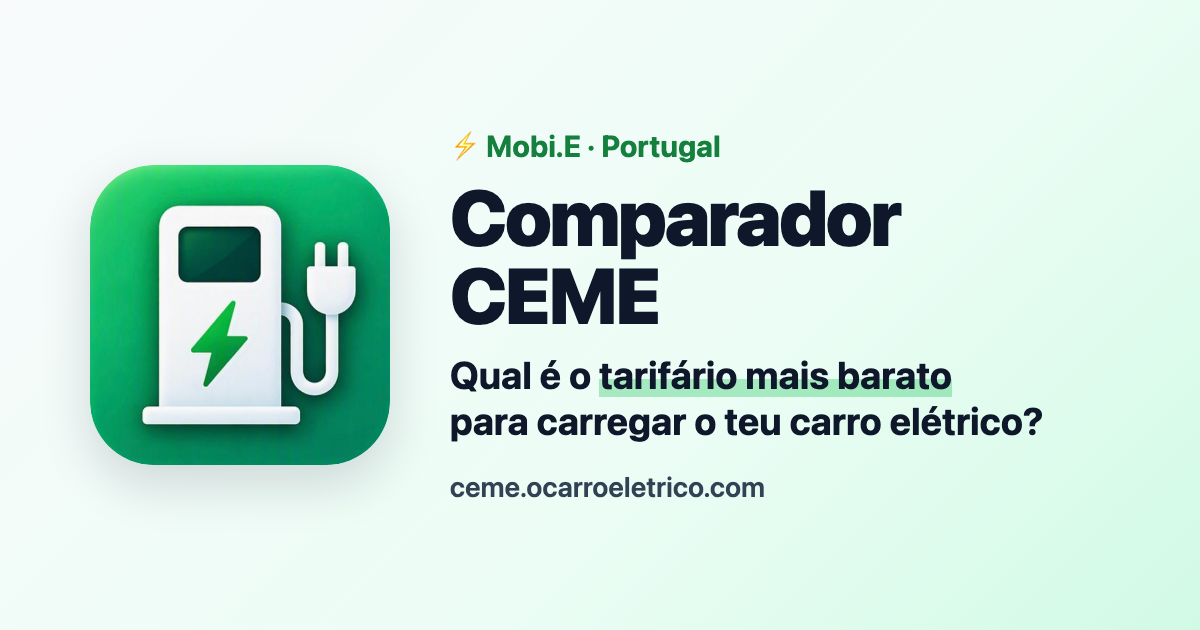
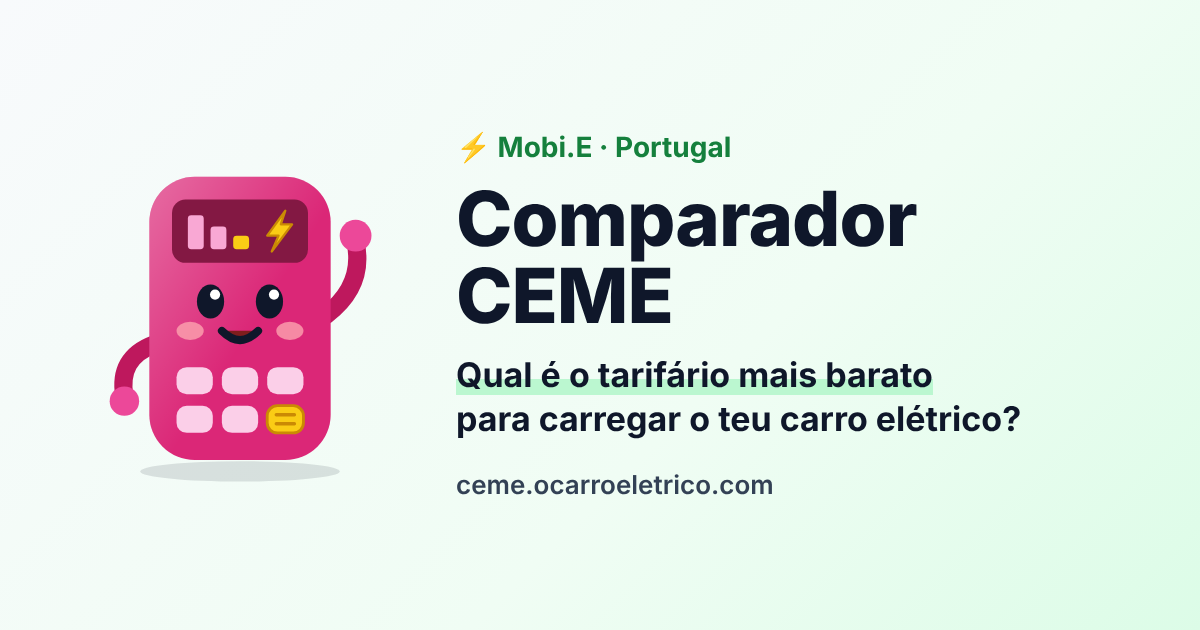
Mascote: a calculadora cor-de-rosa substitui o posto verde (#123)
- icon.svg com a mascote (sombra clara no tema escuro do browser).
- PNG gerados a partir do SVG com o Chromium: 64/96/192/512 com a
  mascote completa; 32 só com corpo, ecrã e cara; 180 e maskable com
  fundo, a mascote dentro da zona segura.
- og.png refeito com a mascote, no mesmo esquema.
- ?v=2 → ?v=3 nos ícones das páginas e do manifest; CACHE do service
  worker sobe para ceme-v8, para largar os ícones antigos.
- README: a mascote faz parte da marca e fica fora das licenças.

Claude-Session: https://claude.ai/code/session_01Mo9tqJKE4zwpdm1Wy1b5TD

diff --git a/frontend/index.html b/frontend/index.html
@@ -33,8 +33,8 @@
 <meta name="apple-mobile-web-app-capable" content="yes">
 <meta name="apple-mobile-web-app-status-bar-style" content="default">
 <meta name="apple-mobile-web-app-title" content="CEME">
-<link rel="apple-touch-icon" href="/icon-180.png?v=2">
-<link rel="icon" type="image/png" sizes="32x32" href="/icon-32.png?v=2"><link rel="icon" type="image/svg+xml" sizes="any" href="/icon.svg">
+<link rel="apple-touch-icon" href="/icon-180.png?v=3">
+<link rel="icon" type="image/png" sizes="32x32" href="/icon-32.png?v=3"><link rel="icon" type="image/svg+xml" sizes="any" href="/icon.svg">
 <style>
   :root{color-scheme:light;
     --ink:#0f172a;--mut:#64748b;--line:#e2e8f0;--bg:#f1f5f9;
@@ -309,7 +309,7 @@
     .bigkwh{font-size:26px}
   }
 </style>
-<header class="top"><div class="wrap"><a class="logo" href="#/"><span class="mark"><img src="/icon-32.png?v=2" srcset="/icon-32.png?v=2 1x, /icon-64.png?v=2 2x, /icon-96.png?v=2 3x" alt="" width="28" height="28"></span><span class="ttl" id="logoTxt">Comparador CEME <b>@ O Carro Elétrico</b></span></a><nav><a href="#/" id="nHome">Simular</a><a href="#/comparar" id="nCmp">Indexado vs fixo</a><a href="/assistente" id="nSimple">Assistente</a><a href="/sobre" id="nSobre">Sobre</a><a href="/contactos" id="nContactos">Contactos</a></nav><span class="langs" role="group" aria-label="Idioma / Language"><button data-lang="pt" class="on" title="Português" aria-label="Português"><svg viewBox="0 0 35 20" preserveAspectRatio="xMidYMid meet" aria-hidden="true"><rect width="14" height="20" fill="#046A38"/><rect x="14" width="21" height="20" fill="#DA291C"/><circle cx="14" cy="10" r="4.8" fill="#FFCC00" stroke="#fff" stroke-width=".7"/><circle cx="14" cy="10" r="2.2" fill="#DA291C"/></svg></button><button data-lang="en" title="English" aria-label="English"><svg viewBox="0 0 60 30" preserveAspectRatio="xMidYMid meet" aria-hidden="true"><defs><clipPath id="uJack"><path d="M0,0 H60 V30 H0 Z"/></clipPath></defs><g clip-path="url(#uJack)"><rect width="60" height="30" fill="#012169"/><path d="M0,0 L60,30 M60,0 L0,30" stroke="#FFFFFF" stroke-width="6"/><path d="M30,0 V30 M0,15 H60" stroke="#FFFFFF" stroke-width="10"/></g><path d="M0,0 L60,30 M60,0 L0,30" stroke="#C8102E" stroke-width="4"/><path d="M30,0 V30 M0,15 H60" stroke="#C8102E" stroke-width="6"/></svg></button></span><button id="themeBtn" class="themebtn" type="button"></button></div></header>
+<header class="top"><div class="wrap"><a class="logo" href="#/"><span class="mark"><img src="/icon-32.png?v=3" srcset="/icon-32.png?v=3 1x, /icon-64.png?v=3 2x, /icon-96.png?v=3 3x" alt="" width="28" height="28"></span><span class="ttl" id="logoTxt">Comparador CEME <b>@ O Carro Elétrico</b></span></a><nav><a href="#/" id="nHome">Simular</a><a href="#/comparar" id="nCmp">Indexado vs fixo</a><a href="/assistente" id="nSimple">Assistente</a><a href="/sobre" id="nSobre">Sobre</a><a href="/contactos" id="nContactos">Contactos</a></nav><span class="langs" role="group" aria-label="Idioma / Language"><button data-lang="pt" class="on" title="Português" aria-label="Português"><svg viewBox="0 0 35 20" preserveAspectRatio="xMidYMid meet" aria-hidden="true"><rect width="14" height="20" fill="#046A38"/><rect x="14" width="21" height="20" fill="#DA291C"/><circle cx="14" cy="10" r="4.8" fill="#FFCC00" stroke="#fff" stroke-width=".7"/><circle cx="14" cy="10" r="2.2" fill="#DA291C"/></svg></button><button data-lang="en" title="English" aria-label="English"><svg viewBox="0 0 60 30" preserveAspectRatio="xMidYMid meet" aria-hidden="true"><defs><clipPath id="uJack"><path d="M0,0 H60 V30 H0 Z"/></clipPath></defs><g clip-path="url(#uJack)"><rect width="60" height="30" fill="#012169"/><path d="M0,0 L60,30 M60,0 L0,30" stroke="#FFFFFF" stroke-width="6"/><path d="M30,0 V30 M0,15 H60" stroke="#FFFFFF" stroke-width="10"/></g><path d="M0,0 L60,30 M60,0 L0,30" stroke="#C8102E" stroke-width="4"/><path d="M30,0 V30 M0,15 H60" stroke="#C8102E" stroke-width="6"/></svg></button></span><button id="themeBtn" class="themebtn" type="button"></button></div></header>
 <div class="hero"><div class="in" id="hero"><h1>Quanto custa <span>carregar agora?</span></h1><p>A ligar ao simulador…</p></div></div>
 <main id="app"></main>
 <div id="favModal" class="modal">

diff --git a/frontend/assistente.html b/frontend/assistente.html
@@ -19,8 +19,8 @@
 <meta name="apple-mobile-web-app-capable" content="yes">
 <meta name="apple-mobile-web-app-status-bar-style" content="default">
 <meta name="apple-mobile-web-app-title" content="CEME">
-<link rel="apple-touch-icon" href="/icon-180.png?v=2">
-<link rel="icon" type="image/png" sizes="32x32" href="/icon-32.png?v=2"><link rel="icon" type="image/svg+xml" sizes="any" href="/icon.svg">
+<link rel="apple-touch-icon" href="/icon-180.png?v=3">
+<link rel="icon" type="image/png" sizes="32x32" href="/icon-32.png?v=3"><link rel="icon" type="image/svg+xml" sizes="any" href="/icon.svg">
 <style>
 :root {
   --bg0: #F7F7F7; --bg1: #EDEDED;
@@ -388,7 +388,7 @@ const STEPS = ['onde', 'quanto', 'quando'];
 function header(step) {
   const i = STEPS.indexOf(step);
   const left = step === 'landing'
-    ? '<a class="home" href="#/"><img src="/icon-32.png?v=2" srcset="/icon-32.png?v=2 1x, /icon-64.png?v=2 2x, /icon-96.png?v=2 3x" alt="" width="28" height="28">CEME</a>'
+    ? '<a class="home" href="#/"><img src="/icon-32.png?v=3" srcset="/icon-32.png?v=3 1x, /icon-64.png?v=3 2x, /icon-96.png?v=3 3x" alt="" width="28" height="28">CEME</a>'
     : `<button class="iconbtn back" data-act="back" aria-label="${t('back')}"><svg viewBox="0 0 24 24"><path d="M15 5l-7 7 7 7"/></svg></button>`;
   const mid = i >= 0 ? `<div class="progress" aria-label="${i + 1} / 3">${STEPS.map((_, j) => `<i class="${j <= i ? 'on' : ''}"></i>`).join('')}</div>` : '';
   document.getElementById('top').innerHTML = `${left}${mid}<span class="spacer"></span>

diff --git a/frontend/tabela.html b/frontend/tabela.html
@@ -15,8 +15,8 @@
   <meta name="apple-mobile-web-app-capable" content="yes">
   <meta name="apple-mobile-web-app-status-bar-style" content="default">
   <meta name="apple-mobile-web-app-title" content="CEME">
-  <link rel="apple-touch-icon" href="/icon-180.png?v=2">
-  <link rel="icon" type="image/png" sizes="32x32" href="/icon-32.png?v=2"><link rel="icon" type="image/svg+xml" sizes="any" href="/icon.svg">
+  <link rel="apple-touch-icon" href="/icon-180.png?v=3">
+  <link rel="icon" type="image/png" sizes="32x32" href="/icon-32.png?v=3"><link rel="icon" type="image/svg+xml" sizes="any" href="/icon.svg">
   <link rel="stylesheet" href="/pages.css">
   <style>
     /* uma tabela para ler e comparar, não um painel: ocupa o ecrã todo e
@@ -79,7 +79,7 @@
 <body>
   <header class="top">
     <div class="wrap">
-      <a class="logo" href="/"><span class="mark"><img src="/icon-32.png?v=2" srcset="/icon-32.png?v=2 1x, /icon-64.png?v=2 2x, /icon-96.png?v=2 3x" alt="" width="28" height="28"></span><span class="ttl" id="logoTxt"></span></a>
+      <a class="logo" href="/"><span class="mark"><img src="/icon-32.png?v=3" srcset="/icon-32.png?v=3 1x, /icon-64.png?v=3 2x, /icon-96.png?v=3 3x" alt="" width="28" height="28"></span><span class="ttl" id="logoTxt"></span></a>
       <nav>
         <a href="/simulador" id="nSim"></a>
         <a href="/assistente" id="nAssistant"></a>

diff --git a/frontend/api.html b/frontend/api.html
@@ -19,8 +19,8 @@
 <meta name="apple-mobile-web-app-capable" content="yes">
 <meta name="apple-mobile-web-app-status-bar-style" content="default">
 <meta name="apple-mobile-web-app-title" content="CEME">
-<link rel="apple-touch-icon" href="/icon-180.png?v=2">
-<link rel="icon" type="image/png" sizes="32x32" href="/icon-32.png?v=2"><link rel="icon" type="image/svg+xml" sizes="any" href="/icon.svg">
+<link rel="apple-touch-icon" href="/icon-180.png?v=3">
+<link rel="icon" type="image/png" sizes="32x32" href="/icon-32.png?v=3"><link rel="icon" type="image/svg+xml" sizes="any" href="/icon.svg">
 <link rel="stylesheet" href="/pages.css">
 <script src="/pwa.js"></script>
 <style>
@@ -39,7 +39,7 @@
 </head>
 <body>
 <header class="top"><div class="wrap">
-  <a class="logo" href="/"><span class="mark"><img src="/icon-32.png?v=2" srcset="/icon-32.png?v=2 1x, /icon-64.png?v=2 2x, /icon-96.png?v=2 3x" alt="" width="28" height="28"></span><span class="ttl">CEME Comparator</span></a>
+  <a class="logo" href="/"><span class="mark"><img src="/icon-32.png?v=3" srcset="/icon-32.png?v=3 1x, /icon-64.png?v=3 2x, /icon-96.png?v=3 3x" alt="" width="28" height="28"></span><span class="ttl">CEME Comparator</span></a>
   <nav><a href="/">Site</a><a href="/api" class="on">API guide</a><a href="/sobre">About</a></nav>
 </div></header>
 <div class="hero"><div class="in">

diff --git a/frontend/about.html b/frontend/about.html
@@ -19,14 +19,14 @@
 <meta name="apple-mobile-web-app-capable" content="yes">
 <meta name="apple-mobile-web-app-status-bar-style" content="default">
 <meta name="apple-mobile-web-app-title" content="CEME">
-<link rel="apple-touch-icon" href="/icon-180.png?v=2">
-<link rel="icon" type="image/png" sizes="32x32" href="/icon-32.png?v=2"><link rel="icon" type="image/svg+xml" sizes="any" href="/icon.svg">
+<link rel="apple-touch-icon" href="/icon-180.png?v=3">
+<link rel="icon" type="image/png" sizes="32x32" href="/icon-32.png?v=3"><link rel="icon" type="image/svg+xml" sizes="any" href="/icon.svg">
 <link rel="stylesheet" href="/pages.css">
 <script src="/theme.js"></script>
 </head>
 <body>
 <header class="top"><div class="wrap">
-  <a class="logo" href="/"><span class="mark"><img src="/icon-32.png?v=2" srcset="/icon-32.png?v=2 1x, /icon-64.png?v=2 2x, /icon-96.png?v=2 3x" alt="" width="28" height="28"></span><span class="ttl" id="logoTxt"></span></a>
+  <a class="logo" href="/"><span class="mark"><img src="/icon-32.png?v=3" srcset="/icon-32.png?v=3 1x, /icon-64.png?v=3 2x, /icon-96.png?v=3 3x" alt="" width="28" height="28"></span><span class="ttl" id="logoTxt"></span></a>
   <nav>
     <a href="/simulador" id="nSim"></a>
     <a href="/assistente" id="nAssistant"></a>

diff --git a/frontend/contact.html b/frontend/contact.html
@@ -19,14 +19,14 @@
 <meta name="apple-mobile-web-app-capable" content="yes">
 <meta name="apple-mobile-web-app-status-bar-style" content="default">
 <meta name="apple-mobile-web-app-title" content="CEME">
-<link rel="apple-touch-icon" href="/icon-180.png?v=2">
-<link rel="icon" type="image/png" sizes="32x32" href="/icon-32.png?v=2"><link rel="icon" type="image/svg+xml" sizes="any" href="/icon.svg">
+<link rel="apple-touch-icon" href="/icon-180.png?v=3">
+<link rel="icon" type="image/png" sizes="32x32" href="/icon-32.png?v=3"><link rel="icon" type="image/svg+xml" sizes="any" href="/icon.svg">
 <link rel="stylesheet" href="/pages.css">
 <script src="/theme.js"></script>
 </head>
 <body>
 <header class="top"><div class="wrap">
-  <a class="logo" href="/"><span class="mark"><img src="/icon-32.png?v=2" srcset="/icon-32.png?v=2 1x, /icon-64.png?v=2 2x, /icon-96.png?v=2 3x" alt="" width="28" height="28"></span><span class="ttl" id="logoTxt"></span></a>
+  <a class="logo" href="/"><span class="mark"><img src="/icon-32.png?v=3" srcset="/icon-32.png?v=3 1x, /icon-64.png?v=3 2x, /icon-96.png?v=3 3x" alt="" width="28" height="28"></span><span class="ttl" id="logoTxt"></span></a>
   <nav>
     <a href="/simulador" id="nSim"></a>
     <a href="/assistente" id="nAssistant"></a>

diff --git a/frontend/privacy.html b/frontend/privacy.html
@@ -13,14 +13,14 @@
 <meta name="apple-mobile-web-app-capable" content="yes">
 <meta name="apple-mobile-web-app-status-bar-style" content="default">
 <meta name="apple-mobile-web-app-title" content="CEME">
-<link rel="apple-touch-icon" href="/icon-180.png?v=2">
-<link rel="icon" type="image/png" sizes="32x32" href="/icon-32.png?v=2"><link rel="icon" type="image/svg+xml" sizes="any" href="/icon.svg">
+<link rel="apple-touch-icon" href="/icon-180.png?v=3">
+<link rel="icon" type="image/png" sizes="32x32" href="/icon-32.png?v=3"><link rel="icon" type="image/svg+xml" sizes="any" href="/icon.svg">
 <link rel="stylesheet" href="/pages.css">
 <script src="/theme.js"></script>
 </head>
 <body>
 <header class="top"><div class="wrap">
-  <a class="logo" href="/"><span class="mark"><img src="/icon-32.png?v=2" srcset="/icon-32.png?v=2 1x, /icon-64.png?v=2 2x, /icon-96.png?v=2 3x" alt="" width="28" height="28"></span><span class="ttl" id="logoTxt"></span></a>
+  <a class="logo" href="/"><span class="mark"><img src="/icon-32.png?v=3" srcset="/icon-32.png?v=3 1x, /icon-64.png?v=3 2x, /icon-96.png?v=3 3x" alt="" width="28" height="28"></span><span class="ttl" id="logoTxt"></span></a>
   <nav>
     <a href="/simulador" id="nSim"></a>
     <a href="/assistente" id="nAssistant"></a>

diff --git a/frontend/404.html b/frontend/404.html
@@ -7,7 +7,7 @@
 <script src="/a11y.js"></script>
 <title>404 — Comparador CEME</title>
 <meta name="robots" content="noindex">
-<link rel="icon" type="image/png" sizes="32x32" href="/icon-32.png?v=2"><link rel="icon" type="image/svg+xml" sizes="any" href="/icon.svg">
+<link rel="icon" type="image/png" sizes="32x32" href="/icon-32.png?v=3"><link rel="icon" type="image/svg+xml" sizes="any" href="/icon.svg">
 <link rel="stylesheet" href="/pages.css">
 <script src="/theme.js"></script>
 <style>
@@ -21,7 +21,7 @@
 </head>
 <body>
 <header class="top"><div class="wrap">
-  <a class="logo" href="/"><span class="mark"><img src="/icon-32.png?v=2" srcset="/icon-32.png?v=2 1x, /icon-64.png?v=2 2x, /icon-96.png?v=2 3x" alt="" width="28" height="28"></span><span class="ttl">CEME</span></a>
+  <a class="logo" href="/"><span class="mark"><img src="/icon-32.png?v=3" srcset="/icon-32.png?v=3 1x, /icon-64.png?v=3 2x, /icon-96.png?v=3 3x" alt="" width="28" height="28"></span><span class="ttl">CEME</span></a>
   <button id="themeBtn" class="themebtn" type="button" aria-label="Tema / Theme"></button>
 </div></header>
 <main>

diff --git a/frontend/omie.html b/frontend/omie.html
@@ -19,8 +19,8 @@
 <meta name="apple-mobile-web-app-capable" content="yes">
 <meta name="apple-mobile-web-app-status-bar-style" content="default">
 <meta name="apple-mobile-web-app-title" content="CEME">
-<link rel="apple-touch-icon" href="/icon-180.png?v=2">
-<link rel="icon" type="image/png" sizes="32x32" href="/icon-32.png?v=2"><link rel="icon" type="image/svg+xml" sizes="any" href="/icon.svg">
+<link rel="apple-touch-icon" href="/icon-180.png?v=3">
+<link rel="icon" type="image/png" sizes="32x32" href="/icon-32.png?v=3"><link rel="icon" type="image/svg+xml" sizes="any" href="/icon.svg">
 <link rel="stylesheet" href="/pages.css">
 <style>
 /* A página das estatísticas OMIE: os cartões à esquerda e as duas tabelas à

diff --git a/frontend/sw.js b/frontend/sw.js
@@ -12,7 +12,7 @@
  *
  * Mudar a estratégia ou a lista? Subir o CACHE: o `activate` apaga as caches
  * com outro nome. */
-const CACHE = 'ceme-v7';
+const CACHE = 'ceme-v8';
 const OFFLINE = ['/strings.js', '/tz.js', '/api.js', '/theme.js', '/a11y.js', '/a11y.css', '/pages.css', '/manifest.webmanifest'];
 const IMMUTABLE = ['/icon-180.png', '/icon-192.png', '/icon-512.png', '/icon-32.png', '/icon-64.png', '/icon-96.png', '/icon-maskable-512.png', '/icon.svg'];
 

diff --git a/README.md b/README.md
@@ -247,6 +247,11 @@ Os dados de terceiros (lista de CEME da ERSE, preços OMIE/MIBEL) **não**
 estão sob a PolyForm: mantêm as suas licenças e créditos. Vê
 [THIRD-PARTY-NOTICES.md](THIRD-PARTY-NOTICES.md).
 
+A mascote (a calculadora cor-de-rosa, em `frontend/icon.svg`, nos ícones
+`frontend/icon-*.png` e no `frontend/og.png`) faz parte da marca O Carro
+Elétrico, como as mascotes dos outros sites do grupo, e fica fora das
+licenças: não a uses noutro projecto sem autorização.
+
 Queres contribuir? Antes do primeiro pull request entrar, assinas o
 [CLA](CLA.md) com um comentário no pull request: vê
 [CONTRIBUTING.md](CONTRIBUTING.md).
